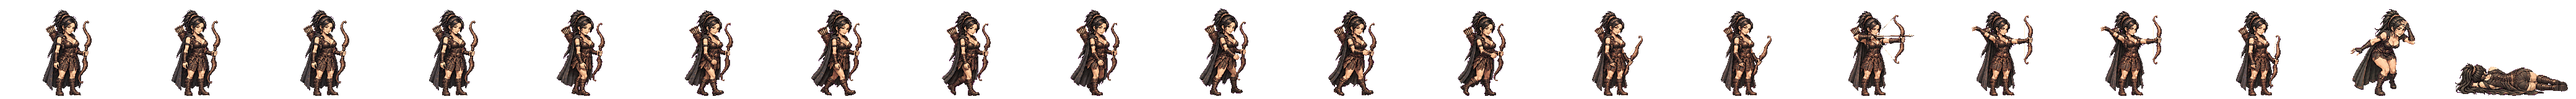
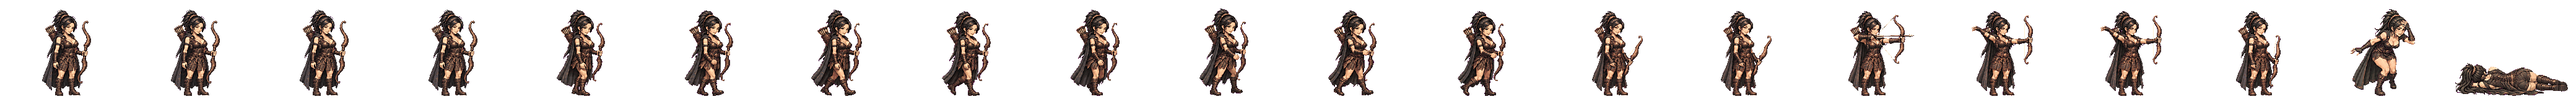
걷는 칸의 머리를 한 장으로 묶음 (형 11-23: 달빛 걷기 — 머리가 커졌다 작아졌다 하고 시선도 이상하다): head-lock.py · 범·매화·달빛
Claude-Session: https://claude.ai/code/session_01TRiuN7s6aDfSnaHxrkctmU

diff --git a/tools/sprite-kit/head-lock.py b/tools/sprite-kit/head-lock.py
@@ -1,0 +1,52 @@
+# -*- coding: utf-8 -*-
+"""걷는 칸의 머리를 한 장으로 묶는다 (11-23 형 「달빛은 걷는 게 이상한데 · 머리가 커졌다 작아졌다 하고 시선도 이상하고」).
+그림 도구는 여덟 칸의 얼굴을 칸마다 새로 그린다 → 눈을 떴다 감았다 하고 시선·머리 모양이 칸마다 달라진다.
+잘 만든 도트 걷기는 머리가 「같은 화소」이고 몸의 높낮이만큼 오르내릴 뿐이다. → 기준 칸의 머리 상자를 나머지 칸에 옮겨 붙인다.
+  머리 자리 맞춤: 가로 = 머리 윗부분 화소의 가운데 · 세로 = 얼굴 살빛(머리 위 46줄 안)의 가운데 (머리카락 끝은 칸마다 흔들려 믿을 수 없다)
+  py -3 -I tools/sprite-kit/head-lock.py <이름> <기준 칸: walk-a-3 처럼> <꼬리표 ...>      예) dalbit walk-a-3 walk-a walk-b
+  상자: 머리 꼭대기 위 4줄 ~ 턱 아래(얼굴 가운데 + CHIN) · 가로는 얼굴 가운데에서 LEFT/RIGHT
+"""
+import sys
+import numpy as np
+from PIL import Image
+
+PXD = 'D:/에셋창고/STD/px'
+LEFT, RIGHT, UP, CHIN = 26, 22, 30, 15   # 얼굴 가운데에서 왼쪽·오른쪽·위·아래로 (게임 화소)
+
+
+def anchor(im):
+    a = np.asarray(im).astype(np.int16)
+    m = a[..., 3] > 0
+    ys = np.nonzero(m.any(1))[0]
+    top = ys.min()
+    r, g, b = a[..., 0], a[..., 1], a[..., 2]
+    skin = m & (r > 170) & (r - b > 40) & (g > 110)
+    band = np.zeros_like(skin)
+    band[top:top + 46] = skin[top:top + 46]
+    sy, sx = np.nonzero(band)
+    return int(round(np.median(sx))), int(round(np.median(sy)))
+
+
+def lock(name, ref, tags):
+    rim = Image.open(f'{PXD}/{name}-{ref}.png').convert('RGBA')
+    rx, ry = anchor(rim)
+    box = (rx - LEFT, ry - UP, rx + RIGHT, ry + CHIN)
+    head = rim.crop(box)
+    for tag in tags:
+        for i in (1, 2, 3, 4):
+            p = f'{PXD}/{name}-{tag}-{i}.png'
+            im = Image.open(p).convert('RGBA')
+            if f'{tag}-{i}' == ref:
+                continue
+            x, y = anchor(im)
+            a = np.asarray(im).copy()
+            x0, y0 = x - LEFT, y - UP
+            a[max(0, y0):y0 + head.size[1], max(0, x0):x0 + head.size[0]] = 0     # 그 칸의 머리 상자를 지우고
+            out = Image.fromarray(a)
+            out.alpha_composite(head, (x0, y0))                                    # 기준 머리를 얹는다
+            out.save(p)
+            print(f'{tag}-{i}: 머리 자리 ({x},{y}) ← 기준 ({rx},{ry})')
+
+
+if __name__ == '__main__':
+    lock(sys.argv[1], sys.argv[2], sys.argv[3:])
